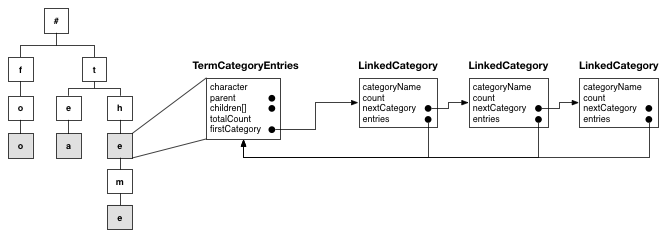
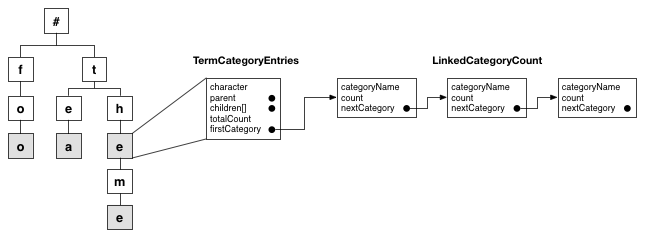
Damn, I'm addicted. Even more reduced memory consumption.
Former-commit-id: d6f65dfad213f8a275f339506b57ddcff98d49f7

diff --git a/palladian-core/src/main/java/ws/palladian/classification/text/DictionaryModel.java b/palladian-core/src/main/java/ws/palladian/classification/text/DictionaryModel.java
@@ -19,6 +19,7 @@ import org.apache.commons.lang3.Validate;
 import ws.palladian.classification.AbstractCategoryEntries;
 import ws.palladian.classification.Category;
 import ws.palladian.classification.CategoryEntries;
+import ws.palladian.classification.ImmutableCategory;
 import ws.palladian.classification.Model;
 import ws.palladian.helper.collection.AbstractIterator;
 import ws.palladian.helper.collection.ArrayIterator;
@@ -420,7 +421,7 @@ public final class DictionaryModel implements Model, Iterable<DictionaryModel.Te
 
         private TermCategoryEntries[] children = EMPTY_ARRAY;
 
-        private LinkedCategory firstCategory;
+        private LinkedCategoryCount firstCategory;
 
         private int totalCount;
 
@@ -476,8 +477,8 @@ public final class DictionaryModel implements Model, Iterable<DictionaryModel.Te
          */
         private void increment(String category, int count) {
             totalCount += count;
-            for (LinkedCategory current = firstCategory; current != null; current = current.nextCategory) {
-                if (category.equals(current.getName())) {
+            for (LinkedCategoryCount current = firstCategory; current != null; current = current.nextCategory) {
+                if (category.equals(current.categoryName)) {
                     current.count += count;
                     return;
                 }
@@ -486,24 +487,26 @@ public final class DictionaryModel implements Model, Iterable<DictionaryModel.Te
         }
 
         private void append(String category, int count) {
-            LinkedCategory tmp = firstCategory;
-            firstCategory = new LinkedCategory(category, count, this);
+            LinkedCategoryCount tmp = firstCategory;
+            firstCategory = new LinkedCategoryCount(category, count);
             firstCategory.nextCategory = tmp;
         }
 
         @Override
         public Iterator<Category> iterator() {
             return new AbstractIterator<Category>() {
-                LinkedCategory current = firstCategory;
+                LinkedCategoryCount current = firstCategory;
 
                 @Override
                 protected Category getNext() throws Finished {
                     if (current == null) {
                         throw FINISHED;
                     }
-                    Category tmp = current;
+                    String categoryName = current.categoryName;
+                    double probability = (double) current.count / totalCount;
+                    int count = current.count;
                     current = current.nextCategory;
-                    return tmp;
+                    return new ImmutableCategory(categoryName, probability, count);
                 }
             };
         }
@@ -580,60 +583,14 @@ public final class DictionaryModel implements Model, Iterable<DictionaryModel.Te
 
     }
 
-    private static final class LinkedCategory implements Category {
-
+    private static final class LinkedCategoryCount {
         private final String categoryName;
         private int count;
-        /** Pointer to the next category (linked list). */
-        private LinkedCategory nextCategory;
-        /** Reference to the container class. */
-        private final TermCategoryEntries entries;
+        private LinkedCategoryCount nextCategory;
 
-        private LinkedCategory(String name, int count, TermCategoryEntries entries) {
+        private LinkedCategoryCount(String name, int count) {
             this.categoryName = name;
             this.count = count;
-            this.entries = entries;
-        }
-
-        @Override
-        public double getProbability() {
-            return (double)count / entries.totalCount;
-        }
-
-        @Override
-        public String getName() {
-            return categoryName;
-        }
-
-        @Override
-        public int getCount() {
-            return count;
-        }
-
-        @Override
-        public String toString() {
-            return categoryName + "=" + count;
-        }
-
-        @Override
-        public int hashCode() {
-            final int prime = 31;
-            int result = 1;
-            result = prime * result + count;
-            result = prime * result + categoryName.hashCode();
-            return result;
-        }
-
-        @Override
-        public boolean equals(Object obj) {
-            if (this == obj) {
-                return true;
-            }
-            if (obj == null || getClass() != obj.getClass()) {
-                return false;
-            }
-            LinkedCategory other = (LinkedCategory)obj;
-            return count == other.count && categoryName.equals(other.categoryName);
         }
 
     }

diff --git a/palladian-core/src/main/java/ws/palladian/classification/ImmutableCategory.java b/palladian-core/src/main/java/ws/palladian/classification/ImmutableCategory.java
@@ -17,12 +17,19 @@ public final class ImmutableCategory implements Category {
 
     private final String name;
     private final double probability;
+    private final int count;
 
     public ImmutableCategory(String name, double probability) {
+        this(name, probability, -1);
+    }
+
+    public ImmutableCategory(String name, double probability, int count) {
         Validate.notNull(name, "name must not be null");
         Validate.inclusiveBetween(0., 1., probability, "probability must be in range [0,1]");
+        Validate.isTrue(count == -1 || count >= 0, "count must be either -1, or greater/equal zero");
         this.probability = probability;
         this.name = name;
+        this.count = count;
     }
 
     @Override
@@ -37,7 +44,7 @@ public final class ImmutableCategory implements Category {
 
     @Override
     public int getCount() {
-        return -1;
+        return count;
     }
 
     @Override
